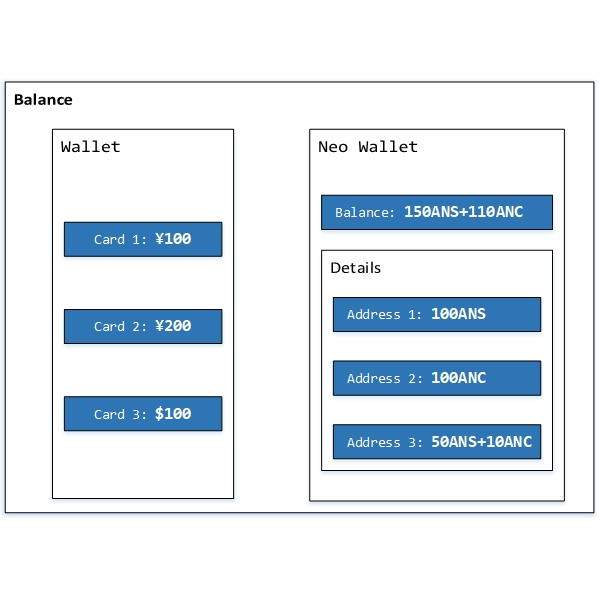
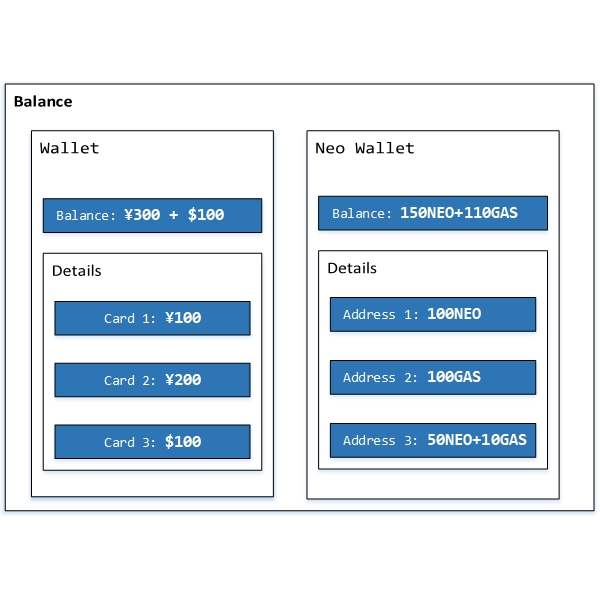
update Neo Wallet.md and pics

Changed region(s): [[0.0, 0.21, 0.99, 0.87], [0.0, 0.12, 0.99, 0.18], [0.99, 0.15, 1.0, 0.84]]

diff --git a/en/Neo Wallet.md b/en/Neo Wallet.md
@@ -2,7 +2,7 @@
 
 ### Introduce
 
-Imagine a physical wallet in our pocket, there are several debit cards in it, each containing a different balance. When we need to pay a bill, we will use these cards to pay it off. If the bill is expensive enough, one card alone might not have enough balance on it to pay off the entire bill. So we would use multiple cards in order to pay off the bill. The Neo wallet is the same as the wallet in our pocket, however, instead of cards, the Neo wallet uses addresses to hold balances.
+Imagine a physical wallet in our pocket, there are several debit cards in it, each containing a different balance. When we need to pay a bill, we will use these cards to pay it off. If the bill is expensive enough, one card alone might not have enough balance on it to pay off the entire bill. So we would use multiple cards to pay off the bill. The Neo wallet is the same as the wallet in our pocket, however, instead of cards, the Neo wallet uses addresses to hold balances.
 
 ![Comparison](https://github.com/PeterLinX/Introduction-to-Neo/blob/master/en/images/Neo%20Wallet/Comparison.jpg)
 
@@ -11,9 +11,7 @@ Imagine a physical wallet in our pocket, there are several debit cards in it, ea
 ### Balance
 
 ##### Phyiscal Wallet Analogy
-Imagine a scenario where I have two cards (or wallet ids), each containing a balance of ¥100. If I have a ¥100 bill to pay, then I can pay it off using only the first card. But if I have a ¥150 bill to pay, my first card will not be enough. I have to use both of my cards in order to pay off my bill. I have to use the full amount on both cards, and the remainder or change will be given back to me on another card of my choosing. Thus at the end of this transaction I own a card which has ¥50 worth of balance. 
-
-This same scenario plays in the NEO wallet. I will have two wallet ID's instead of cards, and my change is returned back to me to a third wallet ID.
+Imagine a scenario where I have two cards, each containing a balance of ¥100. If I have a ¥100 bill to pay, then I can pay it off using only the first card. But if I have a ¥150 bill to pay, my first card will not be enough. I have to use both of my cards in order to pay off my bill. I have to use the full amount on both cards, and the remainder or change will be given back to me on another card of my choosing. Thus at the end of this transaction I own a card which has ¥50 worth of balance. 
 
 ![Balance](https://github.com/PeterLinX/Introduction-to-Neo/blob/master/en/images/Neo%20Wallet/Balance.jpg)
 
@@ -25,13 +23,13 @@ If I want to transfer my coins, Neo wallet will calculate the optimal input addr
 
 ![Transfer](https://github.com/PeterLinX/Introduction-to-Neo/blob/master/en/images/Neo%20Wallet/Transfer.jpg)
 
-For example, my wallet has 150 Neo Shares and 110 Neo Coins, I want to transfer 120 Neo Shares to my friend's address, but my 150 Shares are stored in 3 different addresses. The Neo wallet will calculate and make an optimal transfer strategy which is 100 Neo Shares from address1 and 20 Neo Shares from address3. Then a transaction will be constructed by the wallet according to this strategy and send it to the neo blockchain through the p2p network protocol. The client wallet will  update the local balance in the mean time.
+For example, my wallet has 150 Neo and 110 Neo Gas, I want to transfer 120 Neo to my friend's address, but my 150 Neo are stored in 3 different addresses. The Neo wallet will calculate and make an optimal transfer strategy which is 100 Neo from address1 and 20 Neo from address3. Then a transaction will be constructed by the wallet according to this strategy and send it to the neo blockchain through the p2p network protocol. The client wallet will  update the local balance in the mean time.
 
 ![Neo Wallet](https://github.com/PeterLinX/Introduction-to-Neo/blob/master/en/images/Neo%20Wallet/Neo%20Wallet.jpg)
 
 If this tx is verified by multiple different neo nodes, it will be recorded in the next block on the blockchain, which means that the tx has been stored and recorded in the blockchain. The wallet will be notified by the blockchain by its sync mechanism and confirm this tx. 
 
-However, if this tx does not pass the verification of neo nodes for some reason, it will not be confirmed by other wallets and will not be recorded in the blockchain. But since your own wallet has updated your balance to reflect the transfer, you will have to rebuild wallet index in order to remove this failed tx and rescan the blockchain to restore the balance of Neo shares in each of the addresses in your wallet. Since the transaction has not been recorded on the blockchain, your Neo shares holdings will not have changed and you still "own" the Neo shares. The best way to check is to go on a blockchain explorer and search for your address. Any unconfirmed tx will not show up in the blockchain as it has not be recorded in the blocks yet.
+However, if this tx does not pass the verification of neo nodes for some reason, it will not be confirmed by wallet and will not be recorded in the blockchain. But since your own wallet has updated your balance to reflect the transfer, you will have to rebuild wallet index in order to remove this failed tx and rescan the blockchain to restore the balance of Neo in each of the addresses in your wallet. Since the transaction has not been recorded on the blockchain, your Neo holdings will not have changed and you still "own" them. The best way to check is to go on a blockchain explorer and search for your address. Any unconfirmed tx will not show up in the blockchain as it has not be recorded in the blocks yet.
 
 If you're curious about neo wallet's transfer strategy, please check our wallet code, and read the appendix blow. Neo block chain and wallet program is open source. You can build your own wallet by compiling the code hosted on github on your local machine. Enjoy!
 
